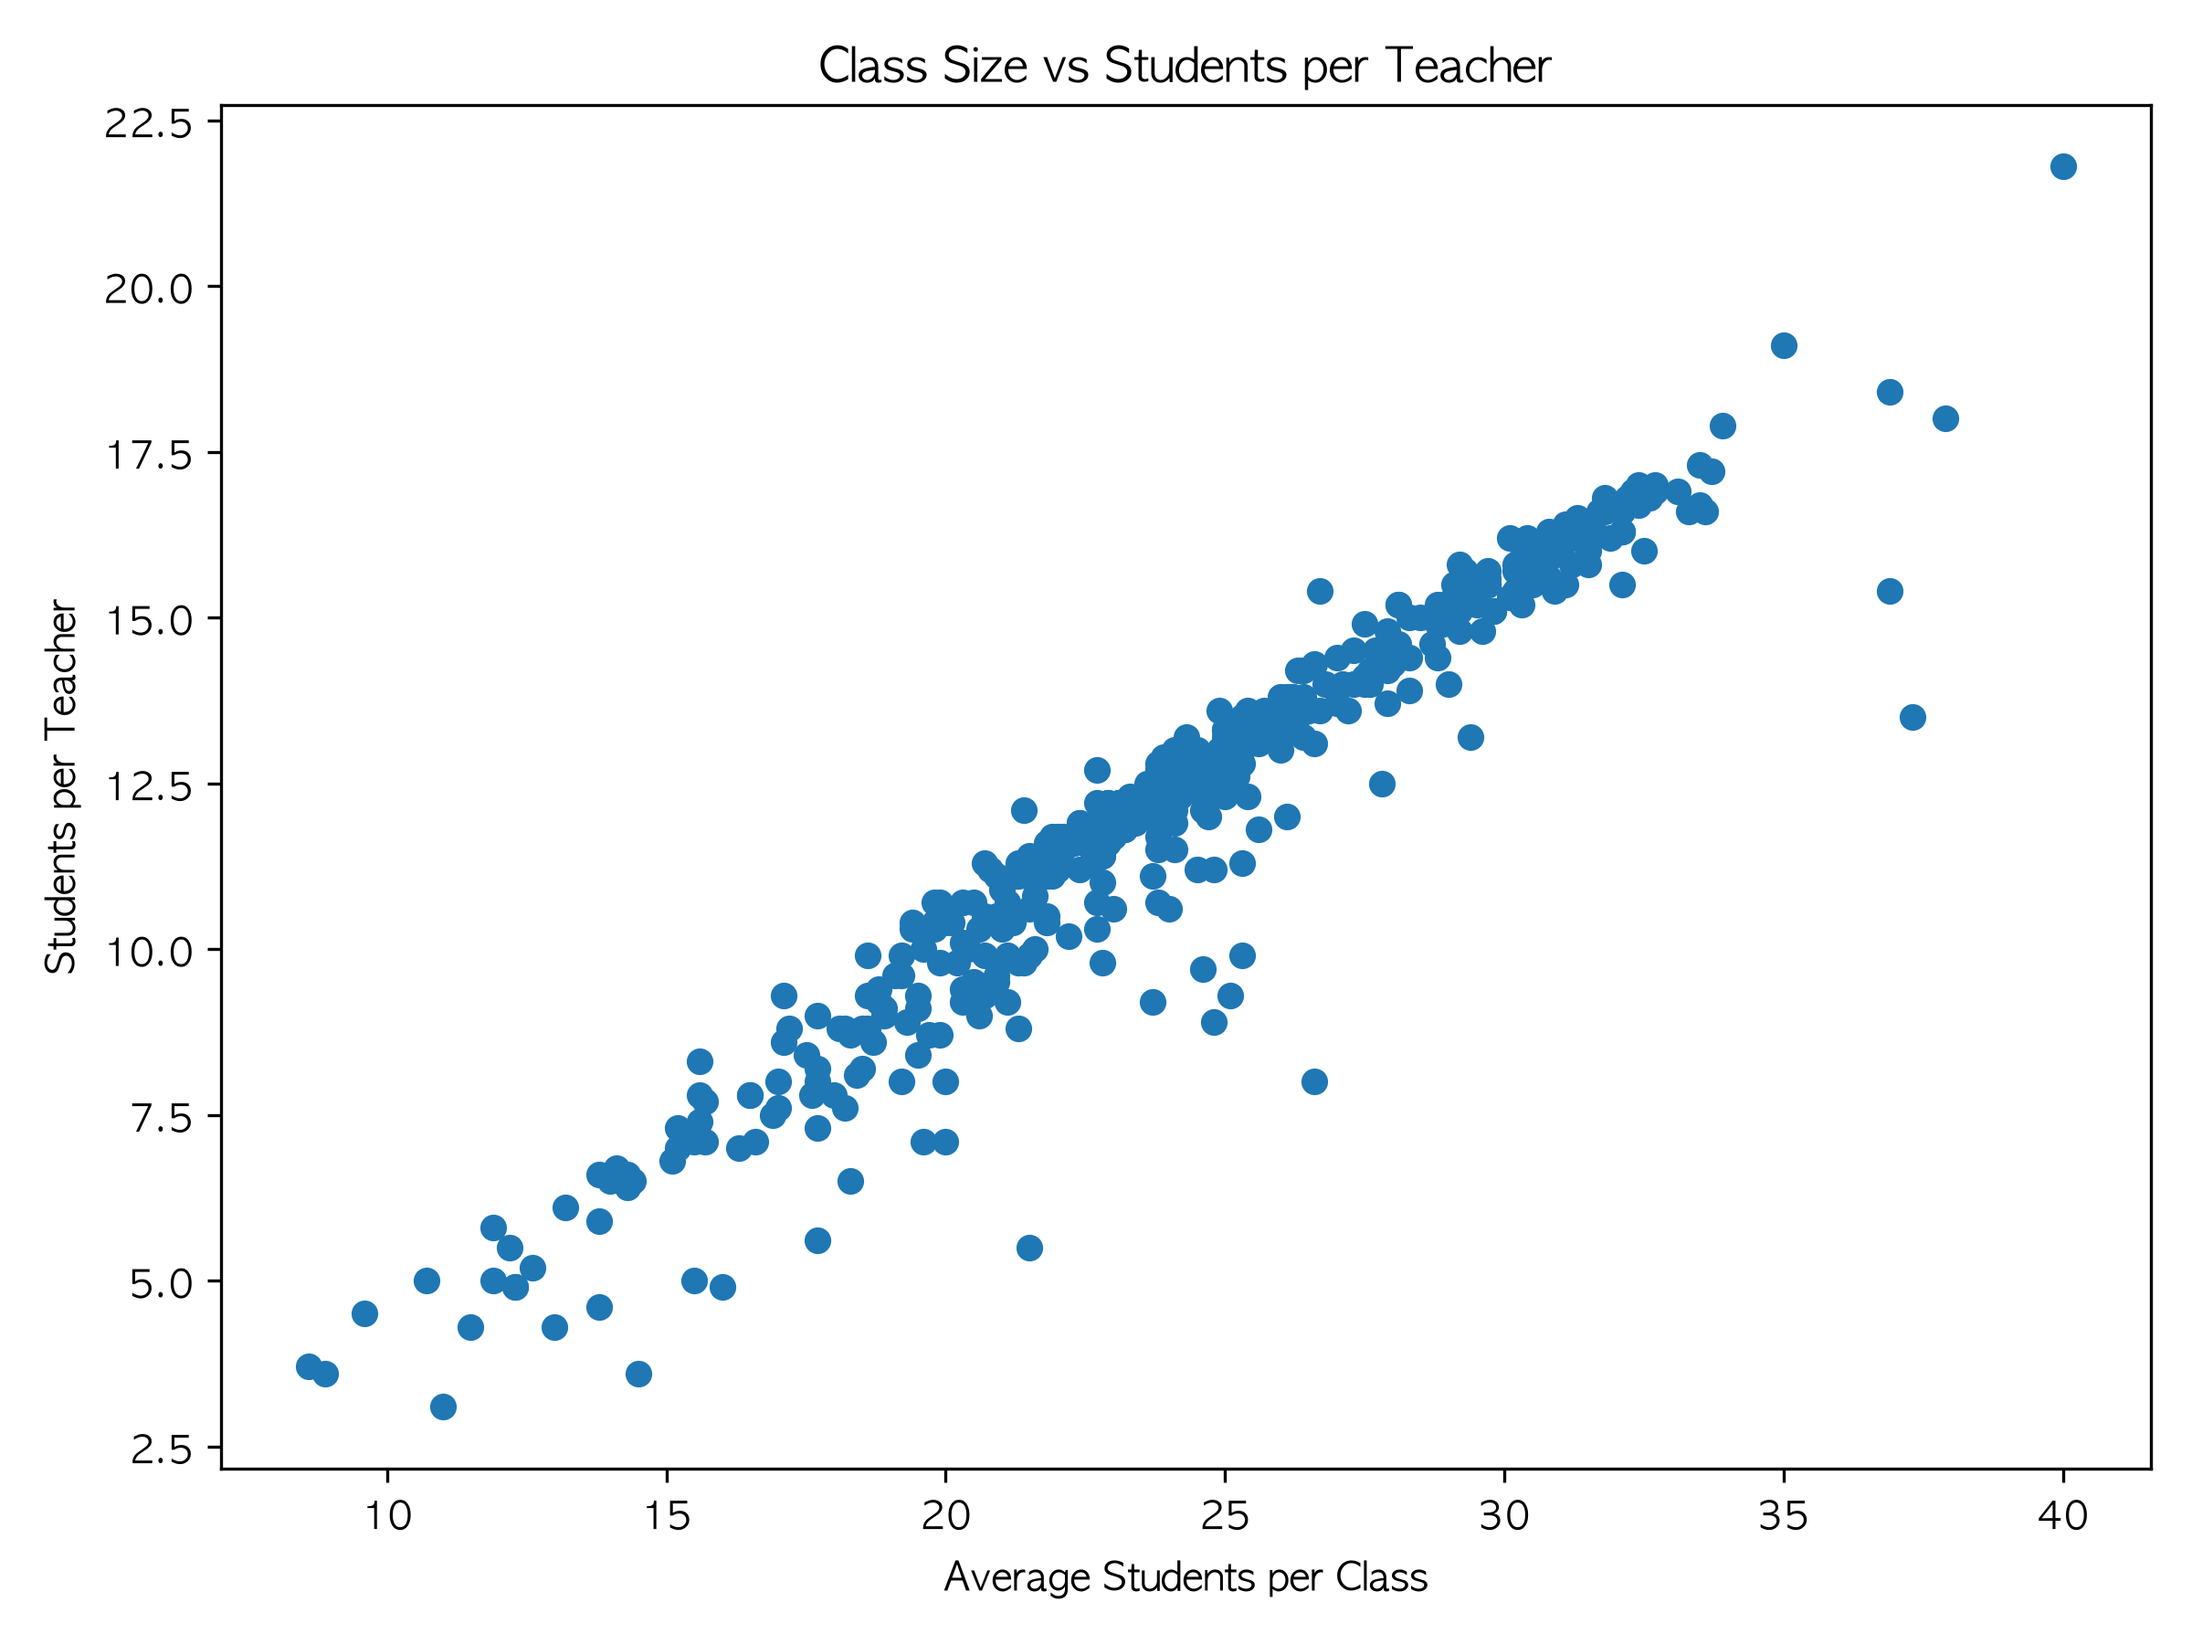
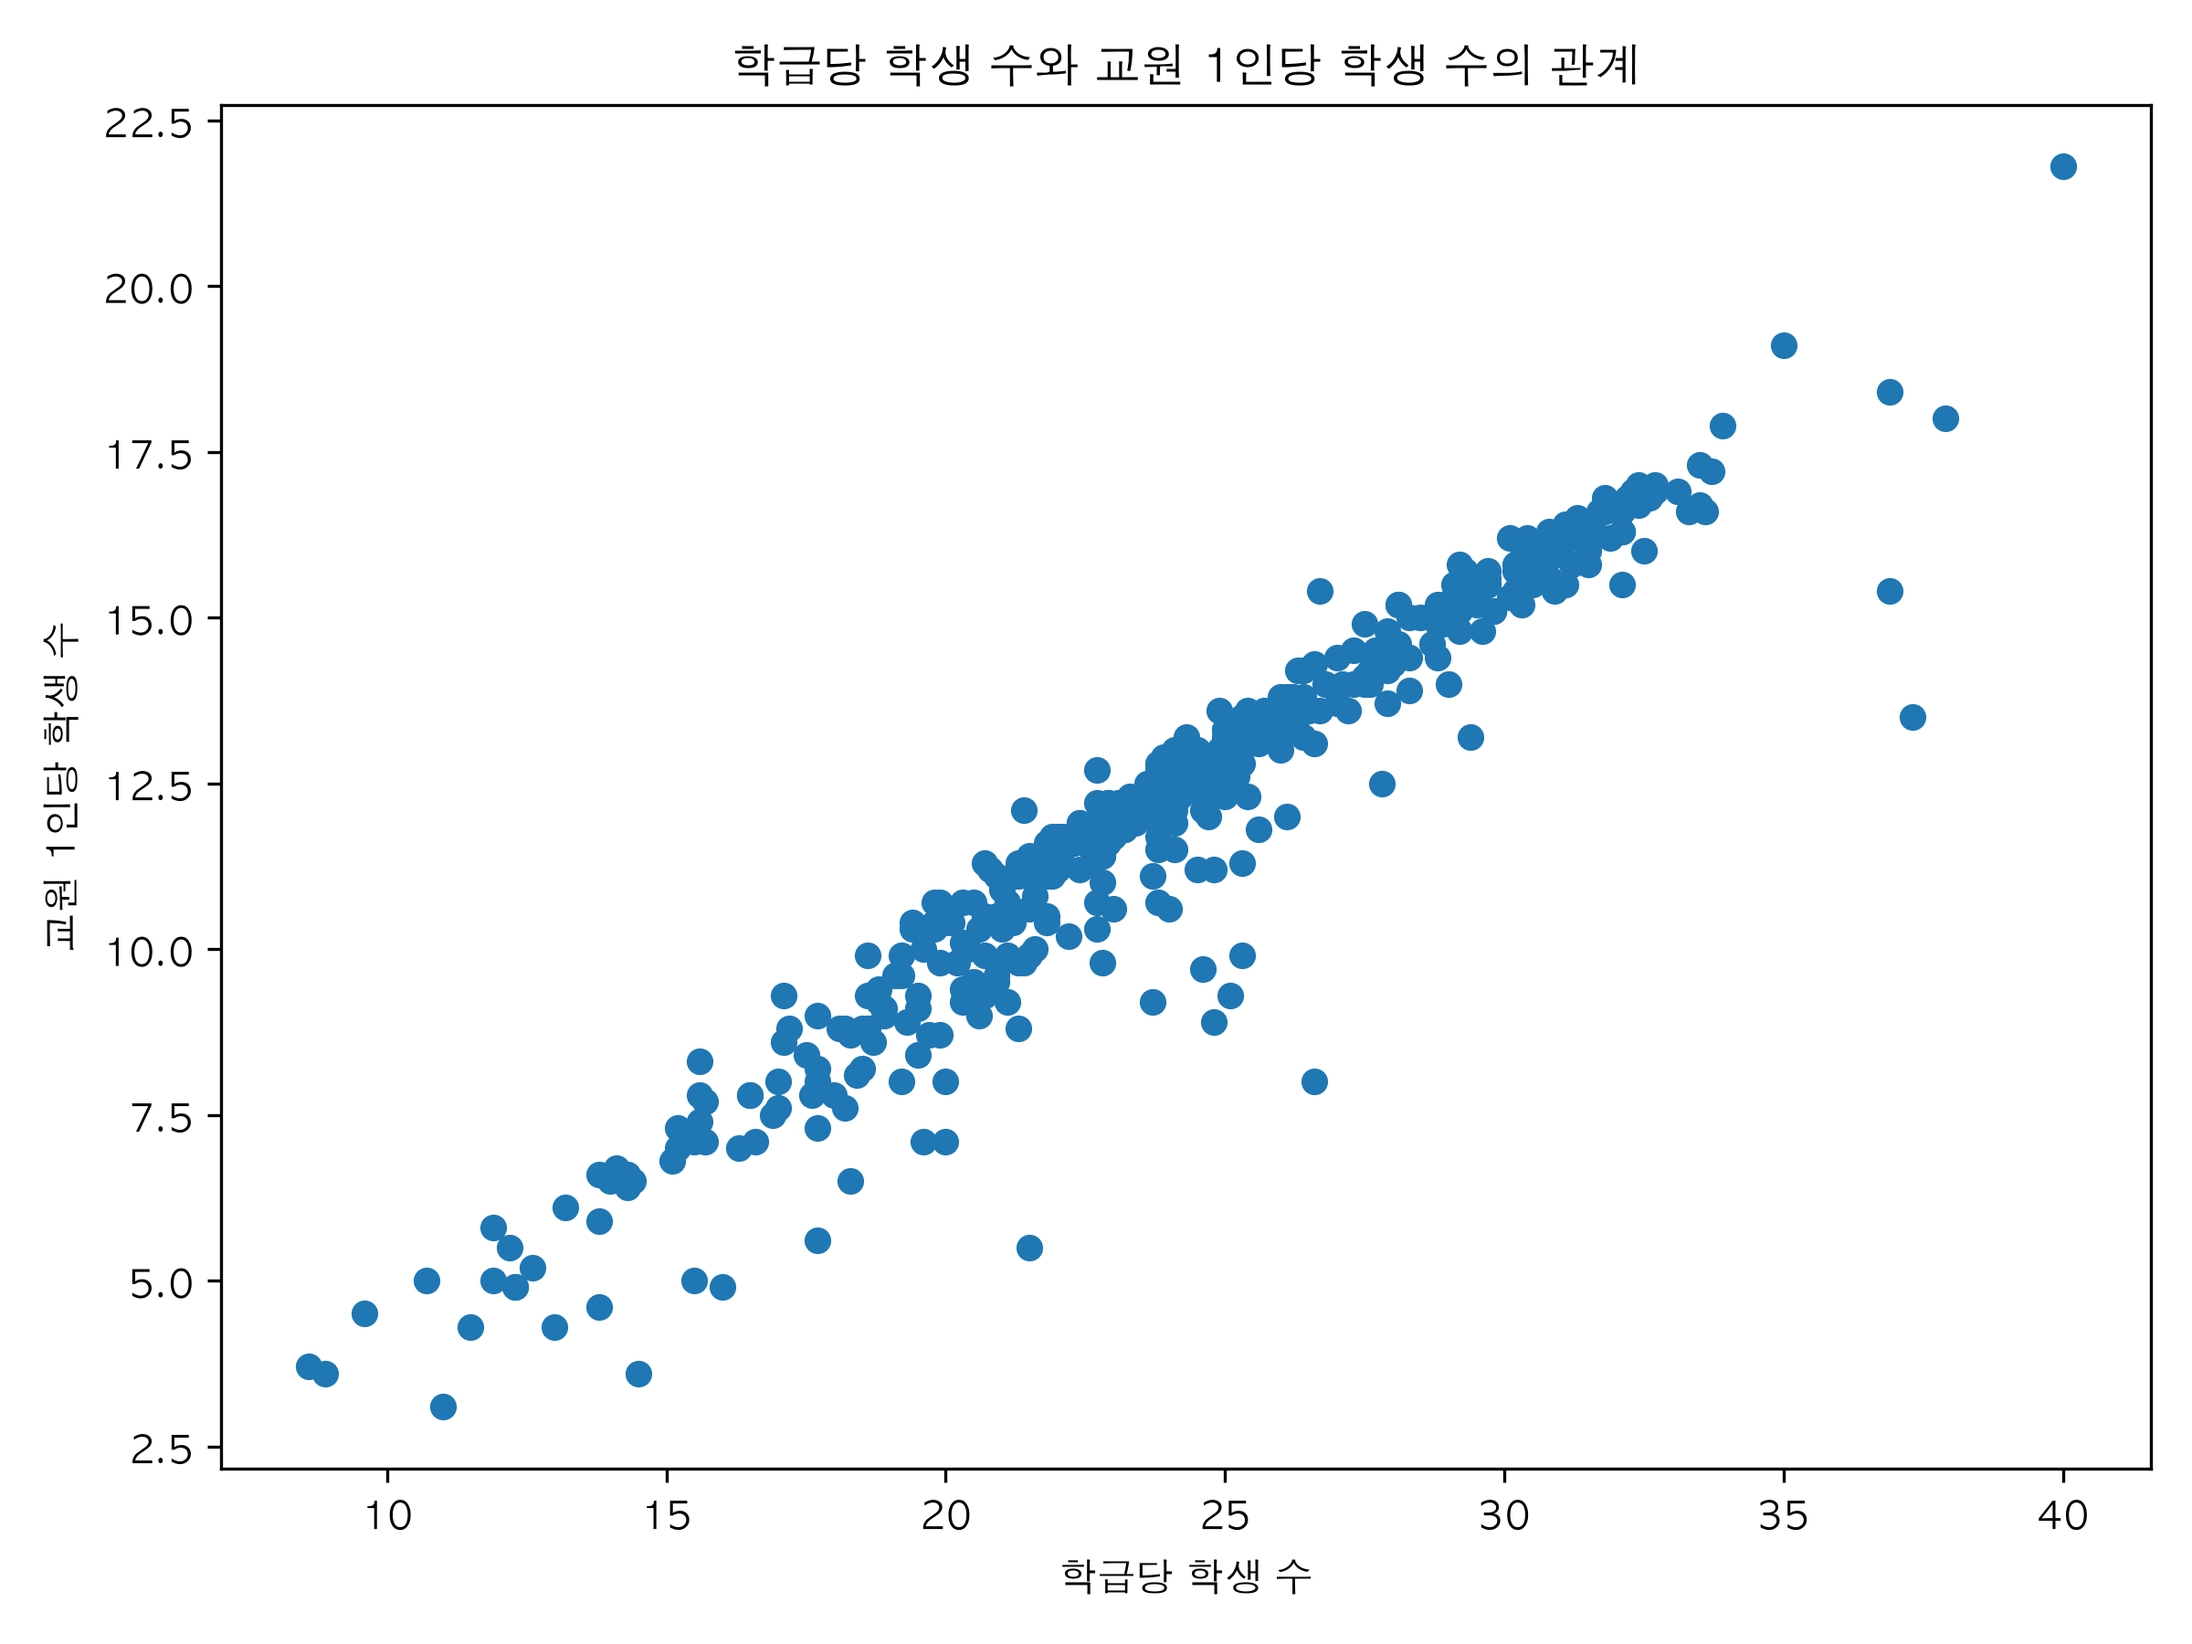
Update analysis and add visualizations

Changed region(s): [[0.3438, 0.0311, 0.75, 0.0622], [0.4375, 0.9333, 0.6562, 0.9644], [0.0, 0.3733, 0.0312, 0.5911]]

diff --git a/student-performance-analysis/analysis.py b/student-performance-analysis/analysis.py
@@ -1,122 +1,109 @@
 import pandas as pd
 import matplotlib.pyplot as plt
+
+# 한글 폰트 설정
 plt.rcParams["font.family"] = "AppleGothic"
 plt.rcParams["axes.unicode_minus"] = False
+
+# 1. 데이터 불러오기
 students = pd.read_excel("students.xlsx")
 
-print(students.head())
-print(students.columns.tolist())
-students.columns = students.columns.str.replace("\n", "").str.replace(" ", "")
-print(students.columns.tolist())
+# 2. 열 이름 정리
+students.columns = (
+    students.columns
+    .str.replace("\n", "", regex=False)
+    .str.replace(" ", "", regex=False)
+)
 
+# 3. 분석에 사용할 변수를 숫자로 변환
 students["수업교원1인당학생수"] = pd.to_numeric(
     students["수업교원1인당학생수"],
     errors="coerce"
 )
 
-print(students["수업교원1인당학생수"].describe())
-
-region_avg = students.groupby("지역")["수업교원1인당학생수"].mean()
-
-print(region_avg.sort_values())
-
-school_type_avg = students.groupby("설립구분")["수업교원1인당학생수"].mean()
-
-print(school_type_avg)
-school_type_avg = school_type_avg.dropna()
-
-school_type_avg.plot(
-    kind="bar",
-    xticks=[0, 1]
+students["학급당학생수"] = pd.to_numeric(
+    students["계.2"],
+    errors="coerce"
 )
 
-plt.xticks([0, 1], ["Public", "Private"], rotation=0)
-
-plt.title("Students per Teacher by School Type")
-plt.xlabel("School Type")
-plt.ylabel("Students per Teacher")
-plt.tight_layout()
-plt.savefig("school_type_comparison.png", dpi=300)
-plt.figure(figsize=(10, 8))
-
-region_avg.sort_values().plot(kind="barh")
-
-plt.title("Students per Teacher by Region")
-plt.xlabel("Students per Teacher")
-plt.ylabel("Region")
-plt.tight_layout()
-plt.savefig("region_comparison.png", dpi=300)
-
-# 지역별 교원 1인당 학생 수
-region_avg = region_avg.dropna().sort_values()
-
-region_avg.plot(kind="bar", figsize=(12, 6))
-
-plt.title("Students per Teacher by Region")
-plt.xlabel("Region")
-plt.ylabel("Students per Teacher")
-plt.tight_layout()
-
-plt.savefig("region_comparison.png", dpi=300)
+# 시군 추출
 students["시군"] = students["지역"].str.split().str[1]
 
-city_avg = students.groupby("시군")["수업교원1인당학생수"].mean()
-city_avg = city_avg.sort_values()
+# 4. 시군별 교원 1인당 학생 수
+teacher_by_city = (
+    students.groupby("시군")["수업교원1인당학생수"]
+    .mean()
+    .sort_values()
+)
 
-print(city_avg)
+print("시군별 교원 1인당 학생 수")
+print(teacher_by_city)
+
 plt.figure(figsize=(10, 8))
-
-city_avg.plot(kind="barh")
-
-plt.title("경기도 시군별 수업 교원 1인당 학생 수")
-plt.xlabel("수업 교원 1인당 학생 수")
+teacher_by_city.plot(kind="barh")
+plt.title("경기도 시군별 교원 1인당 학생 수")
+plt.xlabel("교원 1인당 학생 수")
 plt.ylabel("시군")
 plt.tight_layout()
-
 plt.savefig("city_comparison.png", dpi=300)
+plt.close()
 
-print("학생 수가 가장 적은 5개 시군")
-print(city_avg.head(5))
+# 5. 공립·사립 비교
+school_type_avg = (
+    students.groupby("설립구분")["수업교원1인당학생수"]
+    .mean()
+    .dropna()
+)
 
-print("학생 수가 가장 많은 5개 시군")
-print(city_avg.tail(5))
-print("교원 1인당 학생 수가 가장 적은 5개 시군")
-print(city_avg.head(5))
+print("\n설립구분별 교원 1인당 학생 수")
+print(school_type_avg)
 
-print("교원 1인당 학생 수가 가장 많은 5개 시군")
-print(city_avg.tail(5))
-print(students[["학교명", "계", "계.1", "계.2"]].head(10))
-students["학급당학생수"] = pd.to_numeric(students["계.2"], errors="coerce")
+school_type_avg.plot(kind="bar")
+plt.title("설립구분별 교원 1인당 학생 수")
+plt.xlabel("설립구분")
+plt.ylabel("교원 1인당 학생 수")
+plt.xticks(rotation=0)
+plt.tight_layout()
+plt.savefig("school_type_comparison.png", dpi=300)
+plt.close()
 
-class_size_by_city = students.groupby("시군")["학급당학생수"].mean()
-class_size_by_city = class_size_by_city.sort_values()
+# 6. 시군별 학급당 학생 수
+class_size_by_city = (
+    students.groupby("시군")["학급당학생수"]
+    .mean()
+    .sort_values()
+)
 
+print("\n시군별 학급당 학생 수")
 print(class_size_by_city)
+
+plt.figure(figsize=(10, 8))
+class_size_by_city.plot(kind="barh")
+plt.title("경기도 시군별 학급당 학생 수")
+plt.xlabel("학급당 학생 수")
+plt.ylabel("시군")
+plt.tight_layout()
+plt.savefig("class_size_by_city.png", dpi=300)
+plt.close()
+
+# 7. 상관관계 분석
 correlation = students[
     ["학급당학생수", "수업교원1인당학생수"]
 ].corr()
 
+print("\n상관관계")
 print(correlation)
-plt.figure(figsize=(8, 6))
 
+# 8. 산점도
+plt.figure(figsize=(8, 6))
 plt.scatter(
     students["학급당학생수"],
     students["수업교원1인당학생수"]
 )
 
-plt.title("Class Size vs Students per Teacher")
-plt.xlabel("Average Students per Class")
-plt.ylabel("Students per Teacher")
+plt.title("학급당 학생 수와 교원 1인당 학생 수의 관계")
+plt.xlabel("학급당 학생 수")
+plt.ylabel("교원 1인당 학생 수")
 plt.tight_layout()
-
 plt.savefig("class_size_vs_teacher_ratio.png", dpi=300)
 plt.close()
-teachers = pd.read_excel("teachers.xlsx")
-schools = pd.read_excel("schools.xlsx")
-
-print("교원 데이터")
-print(teachers.columns.tolist())
-
-print("학교 기본정보")
-print(schools.columns.tolist())
-print(teachers.columns.tolist()[:20])

diff --git a/student-performance-analysis/READEME.md b/student-performance-analysis/READEME.md
@@ -57,3 +57,21 @@ This analysis focuses on school environment indicators and does not directly mea
 Factors such as school size, school type, local population, and socioeconomic characteristics may also influence regional differences.
 
 Therefore, the results should be interpreted as descriptive patterns rather than causal effects.
+
+## Visualizations
+
+### Students per Teacher by City
+
+![Students per Teacher by City](city_comparison.png)
+
+### Class Size by City
+
+![Class Size by City](class_size_by_city.png)
+
+### Class Size vs Students per Teacher
+
+![Class Size vs Students per Teacher](class_size_vs_teacher_ratio.png)
+
+### Public vs Private Schools
+
+![Public vs Private Schools](school_type_comparison.png)
